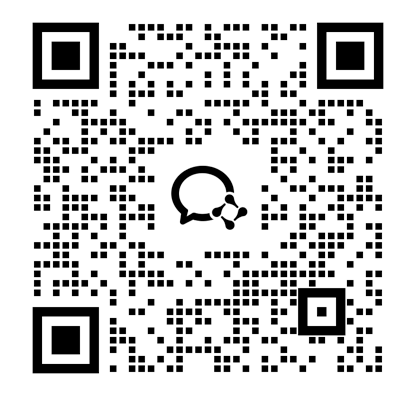
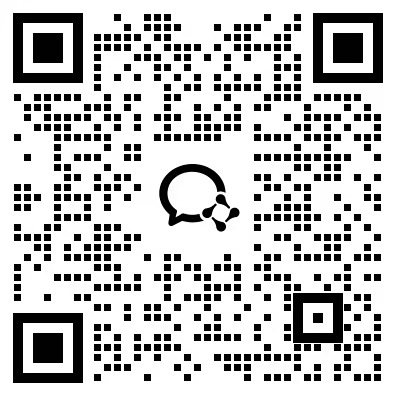
docs: update README and community QR code
- Added TZ=Asia/Shanghai to Docker run commands
- Added troubleshooting for Docker volume permissions
- Added instructions for remote access configuration
- Updated community WeChat QR code asset

Made-with: Cursor

diff --git a/README_zh.md b/README_zh.md
@@ -118,6 +118,7 @@ docker pull ghcr.io/agentflocks/flocks:latest
 # macOS / Linux
 docker run -d \
   --name flocks \
+  -e TZ=Asia/Shanghai \
   -p 8000:8000 \
   -p 5173:5173 \
   --shm-size 2gb \
@@ -129,6 +130,7 @@ docker run -d \
 # Windows PowerShell
 docker run -d `
   --name flocks `
+  -e TZ=Asia/Shanghai `
   -p 8000:8000 `
   -p 5173:5173 `
   --shm-size 2gb `
@@ -156,6 +158,21 @@ url = "https://pypi.tuna.tsinghua.edu.cn/simple"
 url = "https://pypi.org/simple"
 default = true
 ```
+
+### Docker 问题
+
+启动后 `/home/flocks/.flocks` 权限问题
+
+``` bash
+-v "$HOME/.flocks:/home/flocks/.flocks:Z" \
+```
+
+### 远程访问 Flocks 服务
+```bash
+__VITE_ADDITIONAL_SERVER_ALLOWED_HOSTS=<your_domain> \
+flocks start --server-host 127.0.0.1 --webui-host 0.0.0.0
+```
+虚拟机远程访问失败请指定 host 为虚拟机 IP。
 
 ## 加入社区
 

diff --git a/README.md b/README.md
@@ -161,6 +161,21 @@ url = "https://pypi.org/simple"
 default = true
 ```
 
+### Docker Issues
+
+Permission issues for `/home/flocks/.flocks` after startup:
+
+``` bash
+-v "$HOME/.flocks:/home/flocks/.flocks:Z" \
+```
+
+### Remote Access to Flocks Service
+```bash
+__VITE_ADDITIONAL_SERVER_ALLOWED_HOSTS=<your_domain> \
+flocks start --server-host 127.0.0.1 --webui-host 0.0.0.0
+```
+If remote access from a virtual machine fails, please specify the host as the virtual machine's IP.
+
 ## Join our community
 
 Scan the QR code with **WeChat** to join our official discussion group.  
